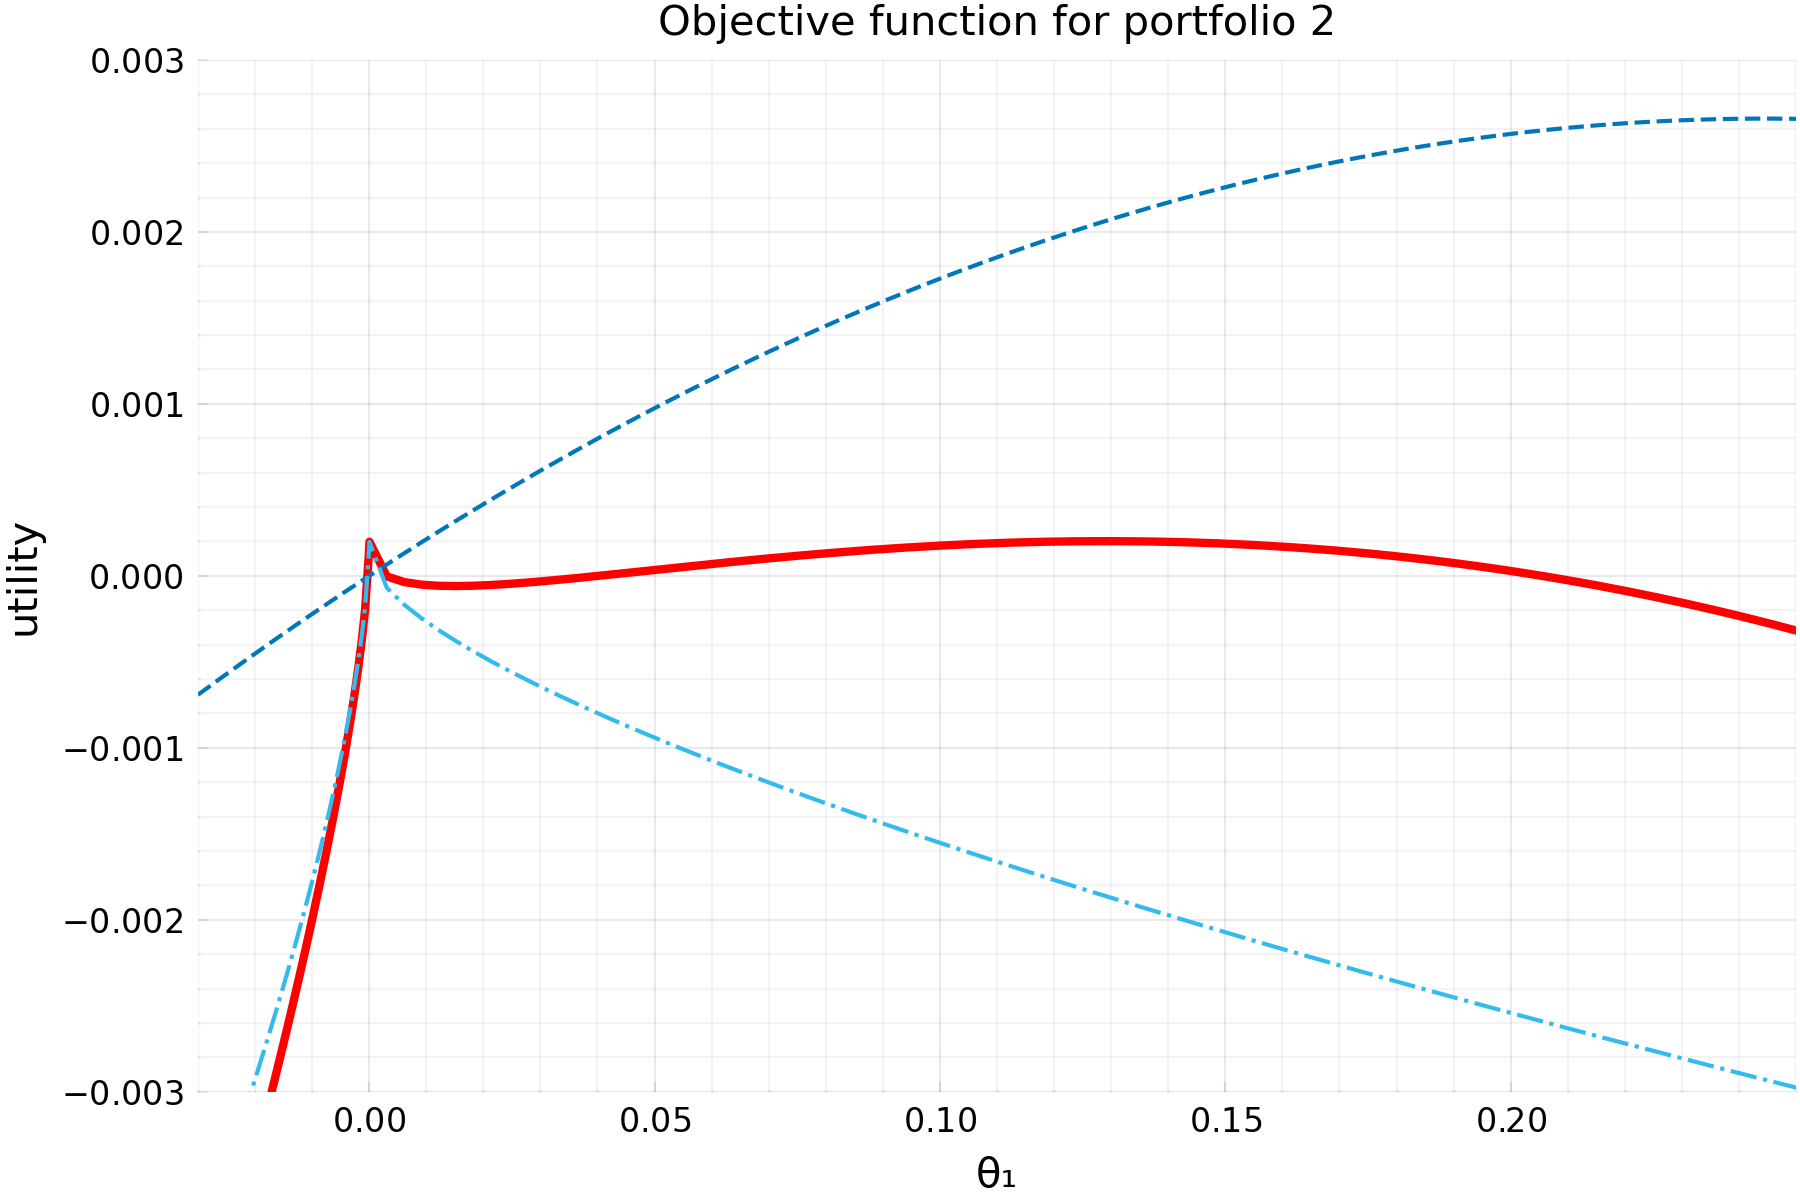
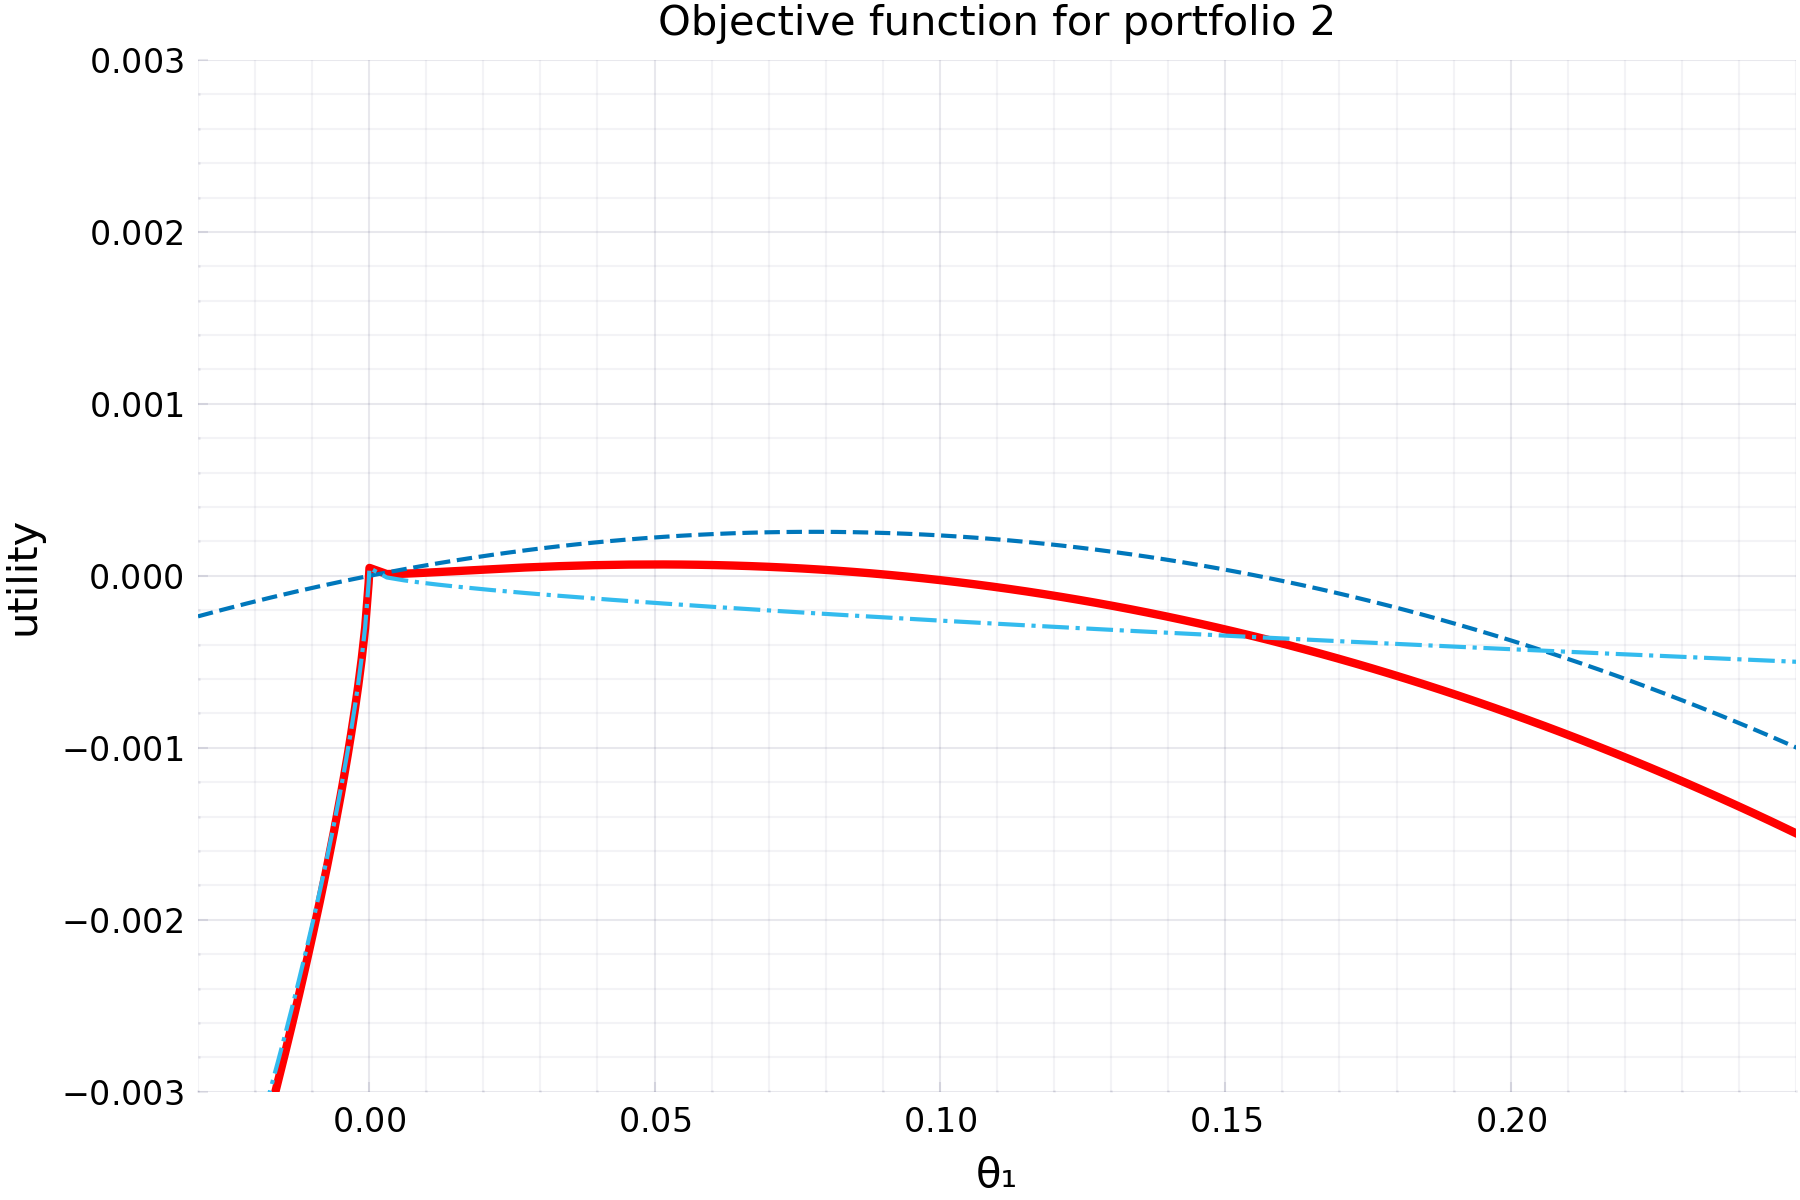
kopi af data

diff --git a/py_code/dataset copy.py b/py_code/dataset copy.py
@@ -1,0 +1,188 @@
+import os
+import pandas as pd
+import matplotlib.pyplot as plt
+import seaborn as sns
+import numpy as np
+from fredapi import Fred
+fred = Fred(api_key='01b2825140d39531d70a035eaf06853d')
+
+#Set the working directory
+project_dir = os.getcwd()   # Change to your project directory
+data_folder = project_dir + "/data"
+
+# Load yield curve data (monthly)
+series_ids = {
+    '1M': 'DGS1MO',   # 1 Month
+    '3M': 'DGS3MO',   # 3 Month
+    '6M': 'DGS6MO',   # 6 Month
+    '1Y': 'DGS1',     # 1 Year
+    '2Y': 'DGS2',     # 2 Year
+    '3Y': 'DGS3',     # 3 Year
+    '5Y': 'DGS5',     # 5 Year
+    '7Y': 'DGS7',     # 7 Year
+    '10Y': 'DGS10',   # 10 Year
+    '20Y': 'DGS20',   # 20 Year
+    '30Y': 'DGS30'    # 30 Year
+}
+yield_data = {name: fred.get_series(series) for name, series in series_ids.items()}
+yield_curve = pd.DataFrame(yield_data)
+yield_curve = yield_curve[yield_curve.index >= "2002-01-01"]
+# Some observations are missing due to holidays/weekends. We forward fill to get a complete dataset.
+full_date_range = pd.date_range(start="2002-01-01", end="2024-12-31", freq='D')
+yield_curve = yield_curve.reindex(full_date_range)
+yield_curve.ffill(inplace=True)
+# Converting to end of month
+yield_curve = yield_curve[yield_curve.index.is_month_end]
+yield_curve = yield_curve / 100 # convert to decimal
+
+# Load return data
+bond_return_data = pd.read_csv(data_folder + "/raw/bond_returns.csv")
+bond_return_data['eom'] = pd.to_datetime(bond_return_data['eom'])
+bond_return_data = bond_return_data.merge(
+    yield_curve[['1M']], left_on='eom', right_index=True, how='left'
+) # adds yield data
+bond_return_data.rename(columns={'1M': 't_bill_1m'}, inplace=True) # rename for clarity
+bond_return_data['ret'] = bond_return_data['ret_exc'] + (1 + bond_return_data['t_bill_1m']) ** (1/12) - 1 # calculate total return
+
+# Load WRDS data
+wrds_data = pd.read_csv(data_folder + "/raw/all_wrds_data.csv")
+wrds_data.columns = wrds_data.columns.str.lower()
+wrds_data.rename(columns={'offering_amt': 'size', 'date': 'eom', 'yield': 'wrds_yield'}, inplace=True)
+wrds_data['eom'] = pd.to_datetime(wrds_data['eom'])
+wrds_data['wrds_yield'] = wrds_data['wrds_yield'].str.rstrip('%').astype(float) / 100
+wrds_data['ret_eom'] = wrds_data['ret_eom'].str.rstrip('%').astype(float) / 100
+wrds_data['maturity_years'] = (pd.to_datetime(wrds_data['maturity']) - pd.to_datetime(wrds_data['offering_date'])).dt.days / 365
+
+# Preparing merge of bond_return_data and descriptive data
+bond_return_data_subset = bond_return_data.drop(columns=['permno', 'rating_group', 'duration'])
+bond_descriptive_data = wrds_data[wrds_data['eom'] <= "2021-11-30"]
+columns_to_keep_descriptive = [
+    'eom', 'cusip', 'security_level', 'size', 'amount_outstanding', 'coupon', 
+    'rating_num', 'rating_cat', 'rating_class', 'wrds_yield', 'price_eom', 
+    'ret_eom', 'tmt', 'maturity_years', 'duration', 'offering_date'
+]
+bond_descriptive_data_subset = bond_descriptive_data[columns_to_keep_descriptive]
+
+# Merge the two first datasets
+print("Merging data")
+bond_data = pd.merge(bond_return_data_subset, bond_descriptive_data_subset, on=["cusip", "eom"])
+
+# Prepare the additional data for merge
+bond_additional_data = wrds_data[wrds_data['eom'] > "2021-11-30"]
+bond_additional_data_subset = bond_additional_data[columns_to_keep_descriptive]
+bond_additional_data_subset = bond_additional_data_subset.merge(
+    yield_curve[['1M']], left_on='eom', right_index=True, how='left'
+) # adds yield data
+bond_additional_data_subset.rename(columns={'1M': 't_bill_1m'}, inplace=True) # rename for clarity
+bond_additional_data_subset['yield'] = bond_additional_data_subset['wrds_yield']
+bond_additional_data_subset['ret'] = bond_additional_data_subset['ret_eom']
+bond_additional_data_subset['ret_exc'] = bond_additional_data_subset['ret'] - ((1 + bond_additional_data_subset['t_bill_1m']) ** (1/12) - 1) # excess return
+bond_additional_data_subset['ret_texc'] = bond_additional_data_subset['ret_exc'] # REQUIRED TO MERGE - IS NOT ACTUALLY CALCULATED CORRECTLY
+bond_additional_data_subset['market_value'] = bond_additional_data_subset['amount_outstanding'] * bond_additional_data_subset['price_eom'] * 10 # MV is NOT in '000s
+bond_additional_data_subset = bond_additional_data_subset[bond_data.columns]
+
+# Merge the additional data
+print("adding data")
+bond_data_large = pd.concat([bond_data, bond_additional_data_subset], ignore_index=True)
+
+# Adding credit spread to the data. First, define a function that can interpolate the yield curve.
+yield_curve.columns = [
+    float(col[:-1]) / 12 if col.endswith("M") else float(col[:-1]) 
+    for col in yield_curve.columns
+] # convert column names to years
+def get_interpolated_yield(all_treasury_yields, target_date, target_maturity):
+    """
+    Get interpolated Treasury yield for a given maturity on a specific date.
+
+    Parameters:
+    - all_treasury_yields: DataFrame with Treasury yields (columns = maturities, index = dates).
+    - target_date: Date (YYYY-MM-DD) for which to get the yield.
+    - target_maturity: Desired maturity (e.g., 1.5 years).
+
+    Returns:
+    - Interpolated yield for the given date and maturity.
+    """
+    # Ensure target_date is a Timestamp
+    target_date = pd.Timestamp(target_date)
+
+    # Check if the date exists
+    if target_date not in all_treasury_yields.index:
+        raise ValueError(f"Date {target_date} not found in dataset")
+
+    # Extract the row for the given date
+    yield_curve = all_treasury_yields.loc[target_date]
+
+    # Get available maturities from column names
+    maturities = np.array(yield_curve.index.astype(float)) 
+    yields = yield_curve.values  # Corresponding yields
+
+    # Perform linear interpolation
+    interpolated_yield = np.interp(target_maturity, maturities, yields)
+
+    return interpolated_yield
+# Calculate credit spread for each bond (doing this on both datasets)
+print("working on credit spread")
+bond_data_large["interp_yield"] = bond_data_large.apply(
+    lambda row: get_interpolated_yield(yield_curve, row["eom"], row["tmt"]),
+    axis=1
+)
+bond_data_large["credit_spread"] = bond_data_large['yield'] - bond_data_large['interp_yield']
+
+# Adding rating, group and price data from last period
+rating_data = wrds_data[['eom', 'cusip', 'rating_num', 'rating_class', 'price_eom']]
+rating_data = rating_data.sort_values(by=['cusip', 'eom'])
+rating_data['rating_num_start'] = rating_data.groupby('cusip')['rating_num'].shift(1)
+rating_data['rating_class_start'] = rating_data.groupby('cusip')['rating_class'].shift(1)
+rating_data['price_eom_start'] = rating_data.groupby('cusip')['price_eom'].shift(1)
+
+# Merge the rating_data onto bond_data and bond_data_large
+bond_data_large = pd.merge(bond_data_large, rating_data[['cusip', 'eom', 'rating_num_start', 'rating_class_start', 'price_eom_start']], on=['cusip', 'eom'], how='left')
+
+#Adding credit spread from last period (large dataset)
+# Ensure data is sorted
+bond_data_large["eom"] = pd.to_datetime(bond_data_large["eom"])
+bond_data_large = bond_data_large.sort_values(["cusip", "eom"])
+# Compute last day of the prior month
+bond_data_large["prior_eom"] = (bond_data_large["eom"] - pd.DateOffset(months=1)).dt.to_period("M").dt.to_timestamp(how="end")
+# Create the new column as a string combining prior date and current cusip
+bond_data_large["prior_date_cusip"] = bond_data_large["prior_eom"].dt.strftime("%Y-%m-%d") + "_" + bond_data_large["cusip"]
+bond_data_large["current_date_cusip"] = bond_data_large["eom"].dt.strftime("%Y-%m-%d") + "_" + bond_data_large["cusip"]
+bond_data_large["prior_date_cusip_shift"] = bond_data_large["current_date_cusip"].shift(1)
+# Create the dummy variable equal to 1 if the prior observations is from last month and on the same cusip
+bond_data_large["dummy_prior_match"] = (bond_data_large["prior_date_cusip_shift"] == bond_data_large["prior_date_cusip"]).astype(int)
+# Shift the 'credit_spread' column by 1 and store it in 'credit_spread_prior'
+bond_data_large['credit_spread_start'] = bond_data_large['credit_spread'].shift(1)
+# Remove observations where the prior observations was not the same cusip one month before
+bond_data_large.loc[bond_data_large['dummy_prior_match'] == 0, 'credit_spread_start'] = np.nan
+# Drop help columns
+bond_data_large = bond_data_large.drop(columns=['dummy_prior_match', 'prior_date_cusip_shift', 'prior_date_cusip', 'current_date_cusip'])
+
+# Adding market value of last period
+bond_data_large = bond_data_large.sort_values(by=['cusip', 'eom'])
+bond_data_large['market_value_start'] = bond_data_large.groupby('cusip')['market_value'].shift(1)
+bond_data_large['market_value_start'] = bond_data_large['market_value_start'].fillna(bond_data_large['market_value'] / (1 + bond_data_large['ret']))
+
+# Remove observations with no rating / return / yield / amount outstanding / duration
+bond_data_large = bond_data_large.dropna(subset=['rating_num'])
+bond_data_large = bond_data_large.dropna(subset=['ret_exc'])
+bond_data_large = bond_data_large.dropna(subset=['yield'])
+bond_data_large = bond_data_large.dropna(subset=['amount_outstanding'])
+bond_data_large = bond_data_large.dropna(subset=['duration'])
+
+#The first time a rating is observed, we assume it is the same as the rating of the next month
+bond_data_large['rating_num_start'] = bond_data_large['rating_num_start'].fillna(bond_data_large['rating_num'])
+bond_data_large['rating_class_start'] = bond_data_large['rating_class_start'].fillna(bond_data_large['rating_class'])
+
+# Adding definitions of distress
+bond_data_large['distressed_rating'] = bond_data_large['rating_num'] > 16.5
+bond_data_large['distressed_rating_start'] = bond_data_large['rating_num_start'] > 16.5
+bond_data_large['distressed_spread'] = bond_data_large['credit_spread'] > 0.1
+bond_data_large['distressed_spread_start'] = bond_data_large['credit_spread_start'] > 0.1
+
+# Finalizing the bond_data dataset
+bond_data = bond_data_large[bond_data_large['eom'] <= '2021-11-30']
+
+# Save the data
+bond_data.to_csv("data/preprocessed/bond_data.csv")
+bond_data_large.to_csv("data/preprocessed/bond_data_large.csv")
+print("done")

diff --git a/py_code/alpha_code.py b/py_code/alpha_code.py
@@ -29,6 +29,25 @@ model_data.loc[model_data['credit_spread_start'] > 0.1, 'portfolio'] = 'DI'
 model_data.loc[model_data['portfolio'].isnull() & (model_data['rating_class_start'] == '0.IG'), 'portfolio'] = 'IG'
 model_data.loc[model_data['portfolio'].isnull() & (model_data['rating_class_start'] == '1.HY'), 'portfolio'] = 'HY'
 
+# # Now split DI into DI_high and DI_low based on price_eom_start
+# for month in unique_months:
+#     di_mask = (model_data['eom'] == month) & (model_data['portfolio'] == 'DI')
+#     di_bonds = model_data.loc[di_mask]
+    
+#     if len(di_bonds) > 0:
+#         # Sort DI bonds by price_eom_start descending
+#         di_bonds_sorted = di_bonds.sort_values('price_eom_start', ascending=False)
+        
+#         # Find the number to split
+#         split_index = len(di_bonds_sorted) // 2
+        
+#         # Assign DI_high and DI_low
+#         high_indices = di_bonds_sorted.index[:split_index]
+#         low_indices = di_bonds_sorted.index[split_index:]
+        
+#         model_data.loc[high_indices, 'portfolio'] = 'DI_high'
+#         model_data.loc[low_indices, 'portfolio'] = 'DI_low'
+
 ### Calculating returns for portfolios
 groups = model_data['portfolio'].dropna().unique().tolist()
 
@@ -150,25 +169,25 @@ stock_returns['date'] = pd.to_datetime(stock_returns['date']).dt.normalize()
 stock_returns['date'] = pd.to_datetime(stock_returns['date']) + pd.offsets.MonthEnd(0)
 stock_returns.set_index('date', inplace=True)
 
-# # Collecting into a single dataframe
-# texc_returns_df = pd.DataFrame(group_ret_texc, index=pd.to_datetime(date_series))
-# texc_returns_df['market_ret_texc'] = market_ret_texc
-# texc_returns_df.index.name = 'date'
-# texc_regression_df = texc_returns_df.iloc[17:-32]
-# #texc_regression_df = texc_regression_df * 12
+# Collecting into a single dataframe
+texc_returns_df = pd.DataFrame(group_ret_texc, index=pd.to_datetime(date_series))
+texc_returns_df['market_ret_texc'] = market_ret_texc
+texc_returns_df.index.name = 'date'
+texc_regression_df = texc_returns_df.iloc[:-32]
+#texc_regression_df = texc_regression_df * 12
 
-# # Define the independent variable (market excess return) and add a constant
-# X = sm.add_constant(texc_regression_df[['market_ret_texc']])
+# Define the independent variable (market excess return) and add a constant
+X = sm.add_constant(texc_regression_df[['market_ret_texc']])
 
-# # Store results in a dictionary
-# texc_regression_results = {}
+# Store results in a dictionary
+texc_regression_results = {}
 
-# # Loop through each portfolio and run the regression
-# for portfolio in groups: 
-#     y = texc_regression_df[portfolio]
-#     model = sm.OLS(y, X).fit(cov_type='HAC', cov_kwds={'maxlags': 4})
-#     texc_regression_results[portfolio] = model
-#     print(f"Regression results using ret_texc for {portfolio}:\n{model.summary()}\n")
+# Loop through each portfolio and run the regression
+for portfolio in groups: 
+    y = texc_regression_df[portfolio]
+    model = sm.OLS(y, X).fit(cov_type='HAC', cov_kwds={'maxlags': 4})
+    texc_regression_results[portfolio] = model
+    print(f"Regression results using ret_texc for {portfolio}:\n{model.summary()}\n")
 
 # Collecting into a single dataframe
 exc_returns_df = pd.DataFrame(group_ret_exc, index=pd.to_datetime(date_series))
@@ -192,11 +211,27 @@ for portfolio in groups:
     exc_regression_results[portfolio] = model
     print(f"Regression results using ret_exc for {portfolio}:\n{model.summary()}\n")
 
-# # Shape ratios
-# print(exc_regression_df.tail())
-# exc_returns_mean = exc_returns_df.mean()
-# exc_returns_std = exc_returns_df.std()
-# exc_returns_sharpe = exc_returns_mean / exc_returns_std
-# print("Mean excess return:\n" + exc_returns_mean.to_string())
-# print("Standard deviation of excess return:\n" + exc_returns_std.to_string())
-# print("Sharpe ratio:\n" + exc_returns_sharpe.to_string())
+# Shape ratios
+print(exc_regression_df.tail())
+print(texc_regression_df.tail())
+print(exc_regression_df.head())
+print(texc_regression_df.head())
+
+exc_returns_mean = exc_regression_df.mean()
+exc_returns_std = exc_regression_df.std()
+exc_returns_sharpe = exc_returns_mean / exc_returns_std
+print("Mean excess return:\n" + exc_returns_mean.to_string())
+print("Standard deviation of excess return:\n" + exc_returns_std.to_string())
+print("Sharpe ratio:\n" + exc_returns_sharpe.to_string())
+
+# Cumulative return
+cum_return = (1 + texc_regression_df['market_ret_texc']).prod() - 1
+
+# Number of months
+n_months = texc_regression_df.shape[0]
+
+# Annualized return
+annualized_return = (1 + cum_return) ** (12 / n_months) - 1
+
+print(f"Cumulative pure credit market return: {cum_return:.4%}")
+print(f"Annualized pure credit market return: {annualized_return:.4%}")

diff --git a/py_code/model_setup.py b/py_code/model_setup.py
@@ -28,9 +28,6 @@ model_data = pd.read_csv(data_folder + "/preprocessed/model_data.csv")
 model_data['eom'] = pd.to_datetime(model_data['eom'])
 model_data['offering_date'] = pd.to_datetime(model_data['offering_date'])
 
-#================================== TEST - MAYBE REMOVE============================================
-model_data['ret_exc'] = model_data['ret_texc']
-bond_data['ret_exc'] = bond_data['ret_texc']
 # ===================================================================    
 #                     a. Set up portfolios by month        
 # ===================================================================
@@ -293,8 +290,8 @@ print("Done calculating capital gain overhang (CGO).")
 print("Calculating volatility and skewness...")
 model_data = model_data.sort_values(['cusip', 'eom'])
 
-model_data['ret_exc'] = model_data['ret_exc']
-model_data['log_ret'] = np.log(1 + model_data['ret_exc'])
+model_data['ret_texc'] = model_data['ret_texc']
+model_data['log_texc'] = np.log(1 + model_data['ret_texc'])
 
 def compute_annual_return(bond_df):
     """
@@ -307,7 +304,7 @@ def compute_annual_return(bond_df):
     annual_returns = []
     for i in range(len(bond_df)):
         if i - 12 <= len(bond_df):
-            window = bond_df.loc[i:i+11, 'log_ret']
+            window = bond_df.loc[i:i+11, 'log_texc']
             annual_ret = np.exp(window.sum()) - 1
         else:
             annual_ret = np.nan

diff --git a/py_code/descriptive_statistics.py b/py_code/descriptive_statistics.py
@@ -41,8 +41,8 @@ unique_months = model_data['eom'].unique()
 
 # Add portfolio to the model_data 
 model_data['portfolio'] = np.nan
-#model_data.loc[model_data['credit_spread_start'] > 0.1, 'portfolio'] = 'DI'
-model_data.loc[model_data['distressed_rating_start'] == True , 'portfolio'] = 'DI'
+model_data.loc[model_data['credit_spread_start'] > 0.1, 'portfolio'] = 'DI'
+#model_data.loc[model_data['distressed_rating_start'] == True , 'portfolio'] = 'DI'
 model_data.loc[model_data['portfolio'].isnull() & (model_data['rating_class_start'] == '0.IG'), 'portfolio'] = 'IG'
 model_data.loc[model_data['portfolio'].isnull() & (model_data['rating_class_start'] == '1.HY'), 'portfolio'] = 'HY'
 

diff --git a/py_code/finding_S_z.py b/py_code/finding_S_z.py
@@ -43,10 +43,10 @@ print("\nAverage proportions across all months:")
 print(avg_portfolio_props)
 
 #Rounds the average proportions to even numbers
-N = 300 #TEST, MAYBE REVERSE
-pr_DI = 100 #TEST, MAYBE REVERSE
-pr_HY = 100 #TEST, MAYBE REVERSE
-pr_IG = 100 #TEST, MAYBE REVERSE
+N = 1000 #TEST, MAYBE REVERSE
+pr_DI = 30 #TEST, MAYBE REVERSE
+pr_HY = 190 #TEST, MAYBE REVERSE
+pr_IG = 780 #TEST, MAYBE REVERSE
 
 # For each month and portfolio, sum the market_value_past
 monthly_mv = (model_data_cgo.groupby(['eom', 'portfolio'])['market_value_start'].sum().reset_index()) #Finds the total market value of each portfolio during that month
